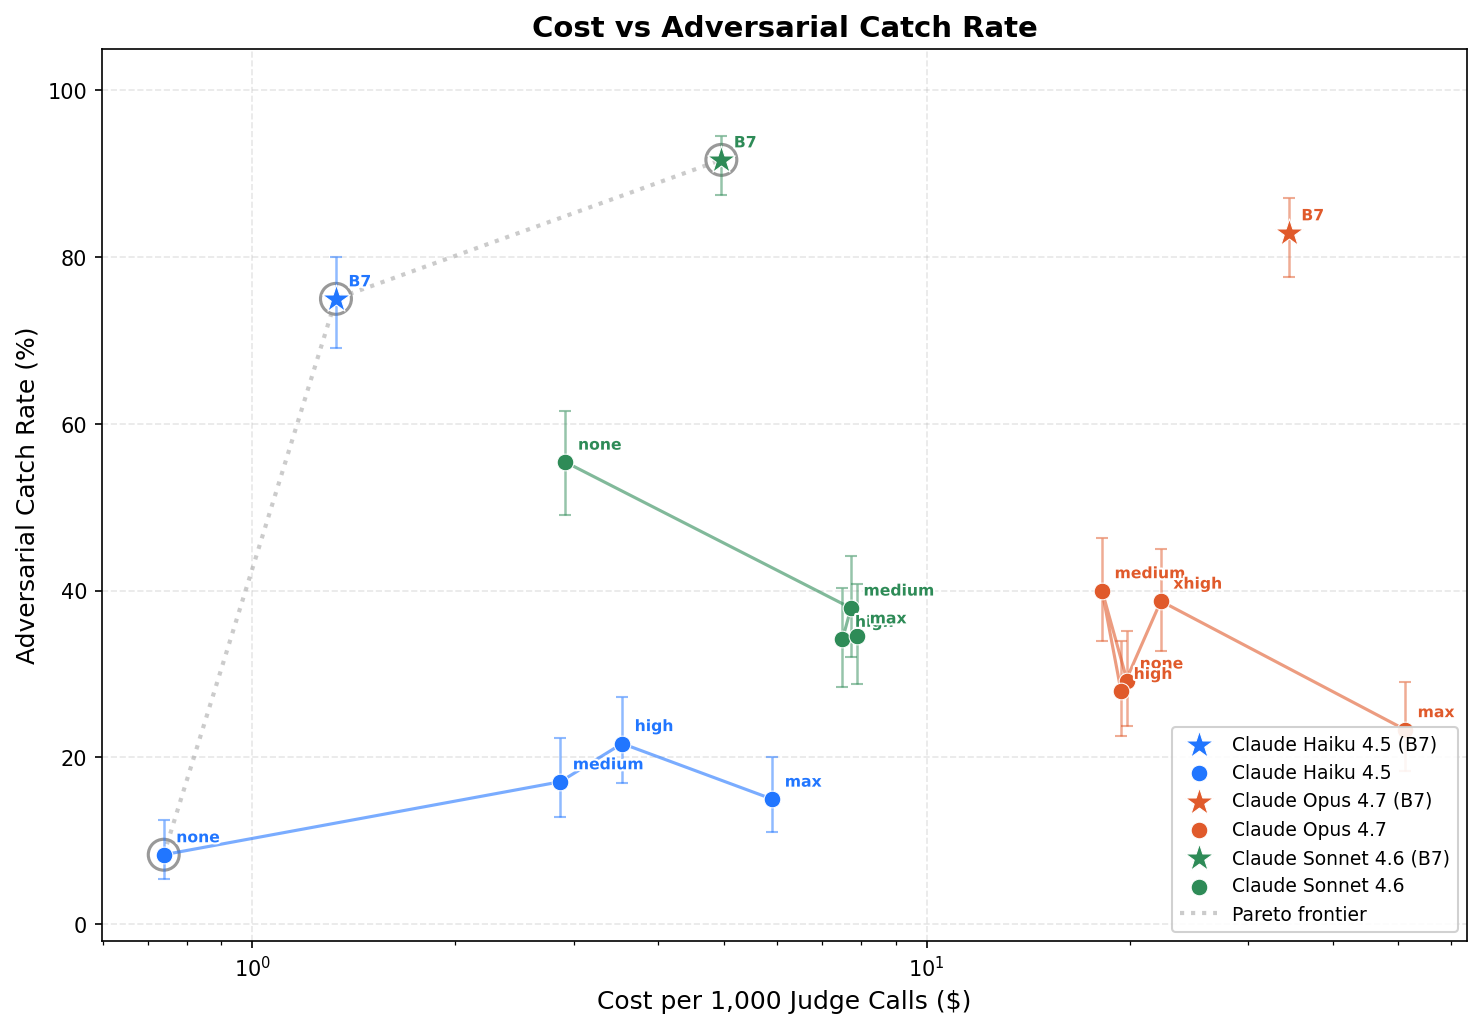
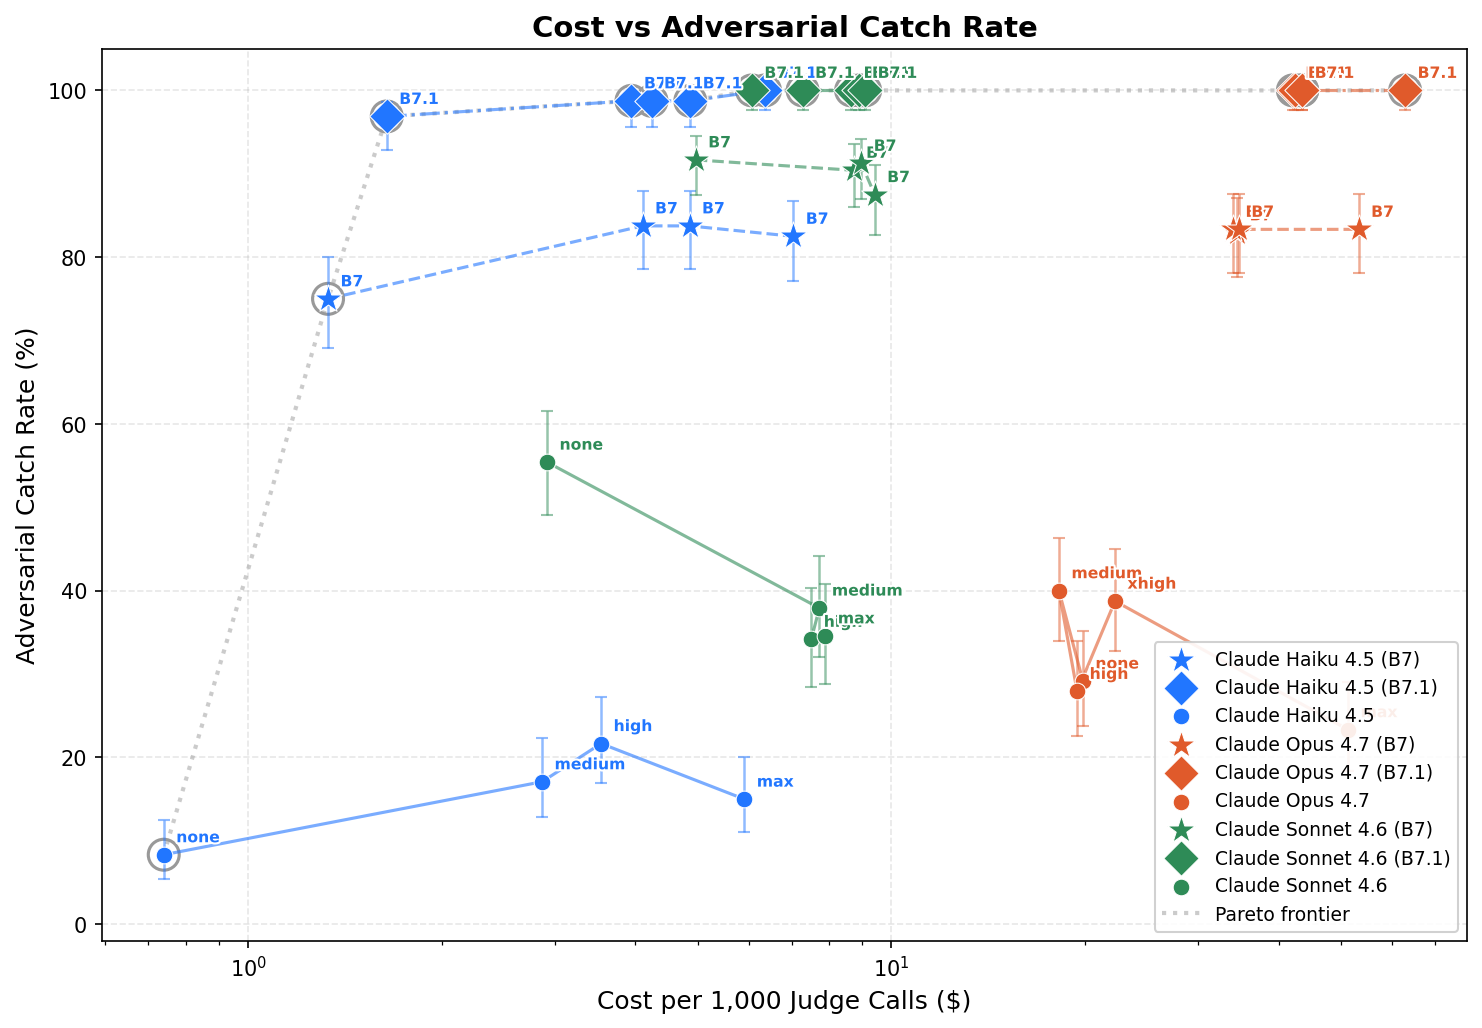
Regenerate Pareto plots with B7 effort sweep and B7.1 data
40 data points across standard/B7/B7.1 × 3 models × effort levels.
B7.1 diamonds show 97-100% catch at ~$1-5/1k calls (Haiku-Sonnet).
Script updated to glob B71 files and render diamond markers.

diff --git a/scripts/token-pareto.py b/scripts/token-pareto.py
@@ -81,6 +81,7 @@ def load_results(base_dir):
     patterns = [
         os.path.join(base_dir, "results", "test8", "adversarial-judge-*.json"),
         os.path.join(base_dir, "results", "adversarial-judge-*-B7-*.json"),
+        os.path.join(base_dir, "results", "adversarial-judge-*-B71-*.json"),
     ]
     files = []
     for pat in patterns:
@@ -250,11 +251,13 @@ def _plot(series, x_key_label, title, out_path, log_x=False):
             yerr_lo = [y - lo for y, lo in zip(ys, ci_los)]
             yerr_hi = [hi - y for y, hi in zip(ys, ci_his)]
 
+            is_b71 = prompt == "B7.1-hardened"
             is_b7 = prompt == "B7-hardened"
-            marker = "*" if is_b7 else "o"
-            ms = 14 if is_b7 else 8
-            label_suffix = " (B7)" if is_b7 else ""
-            linestyle = "--" if is_b7 else "-"
+            is_hardened = is_b7 or is_b71
+            marker = "D" if is_b71 else ("*" if is_b7 else "o")
+            ms = 12 if is_b71 else (14 if is_b7 else 8)
+            label_suffix = " (B7.1)" if is_b71 else (" (B7)" if is_b7 else "")
+            linestyle = "-." if is_b71 else ("--" if is_b7 else "-")
 
             # Line connecting effort levels (only for standard, since B7 has
             # only one effort level per model so far)
@@ -275,7 +278,9 @@ def _plot(series, x_key_label, title, out_path, log_x=False):
             # Labels
             for x, y, effort in zip(xs, ys, efforts):
                 label_text = effort
-                if is_b7:
+                if is_b71:
+                    label_text = f"B7.1"
+                elif is_b7:
                     label_text = f"B7"
                 txt = ax.annotate(
                     label_text, (x, y),
